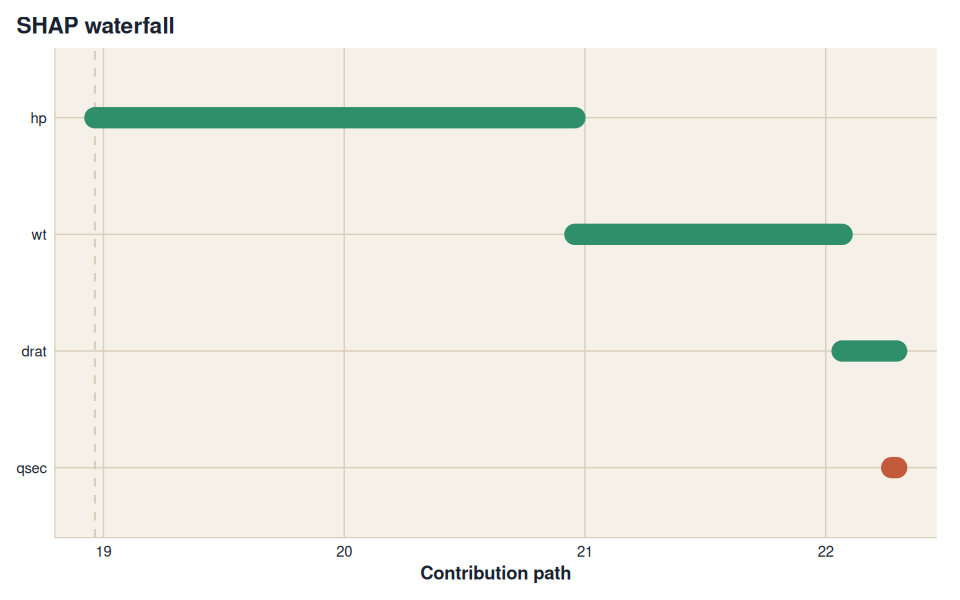
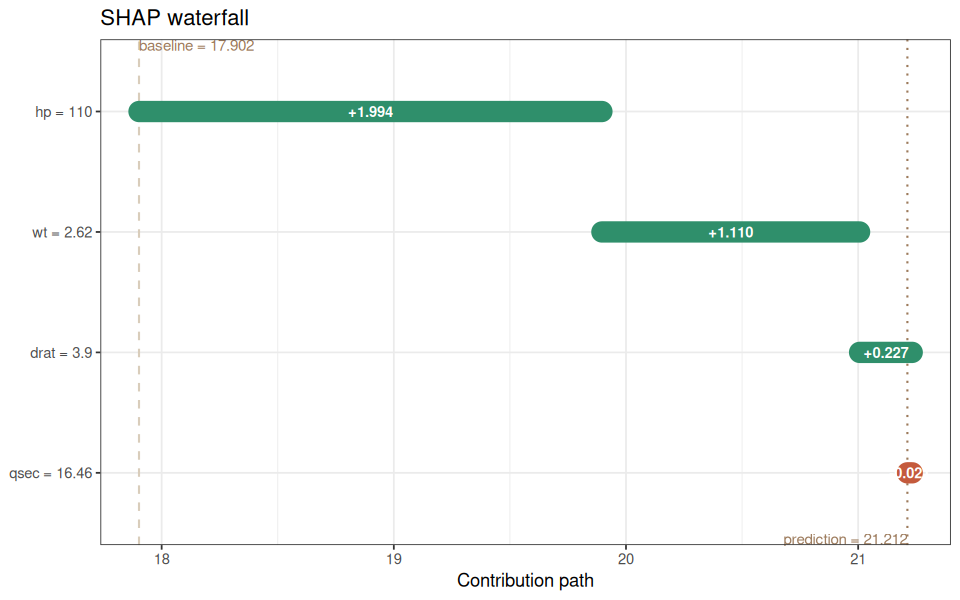
docs: regenerate interpretation examples in README

diff --git a/README.md b/README.md
@@ -900,25 +900,25 @@ local_obj <- interpret(
 
 local_obj
 #> <funcml_iml_local_model>
-#>   feature feature.value        beta      effect
-#> 1      wt            wt -3.72838540 -3.72838540
-#> 2    drat          drat  1.75357748  1.75357748
-#> 3    qsec          qsec -0.04752917 -0.04752917
+#>   feature feature.value observed_value encoded_value        beta     effect
+#> 1      wt     wt = 2.62           2.62          2.62 -3.72838540 -9.7683698
+#> 2    drat    drat = 3.9            3.9          3.90  1.75357748  6.8389522
+#> 3    qsec  qsec = 16.46          16.46         16.46 -0.04752917 -0.7823302
 summary(local_obj)
 #> $results
-#>   feature feature.value        beta      effect
-#> 1      wt            wt -3.72838540 -3.72838540
-#> 2    drat          drat  1.75357748  1.75357748
-#> 3    qsec          qsec -0.04752917 -0.04752917
+#>   feature feature.value observed_value encoded_value        beta     effect
+#> 1      wt     wt = 2.62           2.62          2.62 -3.72838540 -9.7683698
+#> 2    drat    drat = 3.9            3.9          3.90  1.75357748  6.8389522
+#> 3    qsec  qsec = 16.46          16.46         16.46 -0.04752917 -0.7823302
 #> 
 #> $fidelity
 #> [1] 0.8729239
 #> 
 #> $weights
-#>   feature feature.value        beta      effect
-#> 1      wt            wt -3.72838540 -3.72838540
-#> 2    drat          drat  1.75357748  1.75357748
-#> 3    qsec          qsec -0.04752917 -0.04752917
+#>   feature feature.value observed_value encoded_value        beta     effect
+#> 1      wt     wt = 2.62           2.62          2.62 -3.72838540 -9.7683698
+#> 2    drat    drat = 3.9            3.9          3.90  1.75357748  6.8389522
+#> 3    qsec  qsec = 16.46          16.46         16.46 -0.04752917 -0.7823302
 #> 
 #> $sample_weights
 #>  [1] 0.8910268 0.7291470 0.8886166 0.8583971 0.6581651 0.5131897 0.6090240
@@ -933,11 +933,11 @@ summary(local_obj)
 #> 
 #> Coefficients:
 #> (Intercept)           wt           hp         qsec         drat  
-#>    23.94930     -3.72839     -0.02542     -0.04753      1.75358  
+#>    30.45753     -3.72839     -0.02542     -0.04753      1.75358  
 #> 
 #> 
 #> $local_prediction
-#> [1] 25.31013
+#> [1] 23.9493
 ```
 
 ``` r
@@ -968,17 +968,27 @@ shap_obj <- interpret(
 
 shap_obj
 #> <funcml_shap>
-#>   feature        shap   phi_var baseline prediction feature_value
-#> 1      wt  1.10991186 2.5953940 18.96437   21.21203          2.62
-#> 2      hp  1.99376491 6.9207786 18.96437   21.21203           110
-#> 3    qsec -0.02074833 0.1641907 18.96437   21.21203         16.46
-#> 4    drat  0.22664289 0.3478303 18.96437   21.21203           3.9
+#>      feature        shap   phi_var baseline prediction feature_value
+#> wt        wt  1.10991186 2.5953940 17.90246   21.21203          2.62
+#> hp        hp  1.99376491 6.9207786 17.90246   21.21203           110
+#> qsec    qsec -0.02074833 0.1641907 17.90246   21.21203         16.46
+#> drat    drat  0.22664289 0.3478303 17.90246   21.21203           3.9
+#>      feature_label
+#> wt       wt = 2.62
+#> hp        hp = 110
+#> qsec  qsec = 16.46
+#> drat    drat = 3.9
 summary(shap_obj)
-#>   feature        shap   phi_var baseline prediction feature_value
-#> 1      wt  1.10991186 2.5953940 18.96437   21.21203          2.62
-#> 2      hp  1.99376491 6.9207786 18.96437   21.21203           110
-#> 3    qsec -0.02074833 0.1641907 18.96437   21.21203         16.46
-#> 4    drat  0.22664289 0.3478303 18.96437   21.21203           3.9
+#>      feature        shap   phi_var baseline prediction feature_value
+#> wt        wt  1.10991186 2.5953940 17.90246   21.21203          2.62
+#> hp        hp  1.99376491 6.9207786 17.90246   21.21203           110
+#> qsec    qsec -0.02074833 0.1641907 17.90246   21.21203         16.46
+#> drat    drat  0.22664289 0.3478303 17.90246   21.21203           3.9
+#>      feature_label
+#> wt       wt = 2.62
+#> hp        hp = 110
+#> qsec  qsec = 16.46
+#> drat    drat = 3.9
 ```
 
 ``` r
@@ -1007,17 +1017,17 @@ breakdown_obj <- interpret(
 
 breakdown_obj
 #> <funcml_breakdown>
-#>   step feature contribution
-#> 1    1      hp    1.2123036
-#> 2    2      wt   -2.0166749
-#> 3    3    drat    0.9082389
-#> 4    4    qsec   -0.4628849
+#>   step feature feature_value feature_label contribution
+#> 1    1      hp           110      hp = 110   1.21230359
+#> 2    2    qsec         16.46  qsec = 16.46  -0.38338003
+#> 3    3      wt          2.62     wt = 2.62   0.10471258
+#> 4    4    drat           3.9    drat = 3.9   0.02301197
 summary(breakdown_obj)
-#>   step feature contribution
-#> 1    1      hp    1.2123036
-#> 2    2      wt   -2.0166749
-#> 3    3    drat    0.9082389
-#> 4    4    qsec   -0.4628849
+#>   step feature feature_value feature_label contribution
+#> 1    1      hp           110      hp = 110   1.21230359
+#> 2    2    qsec         16.46  qsec = 16.46  -0.38338003
+#> 3    3      wt          2.62     wt = 2.62   0.10471258
+#> 4    4    drat           3.9    drat = 3.9   0.02301197
 ```
 
 ``` r